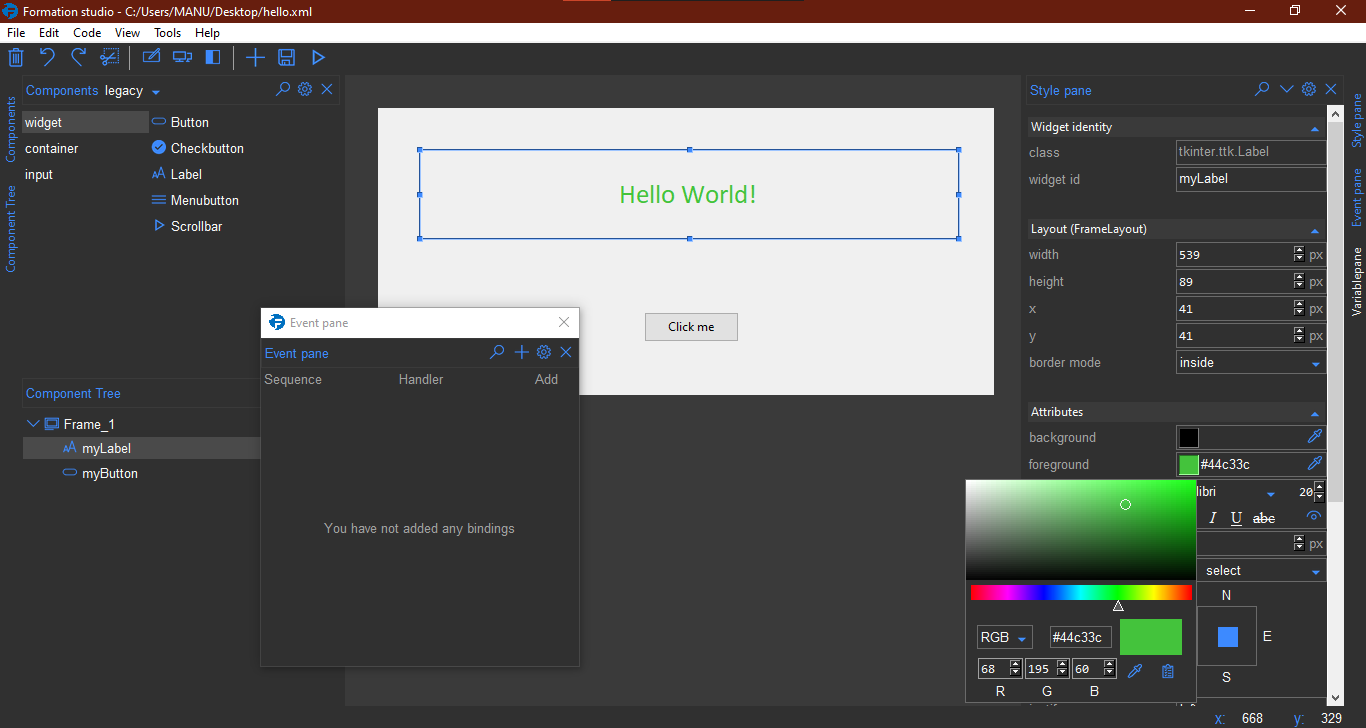
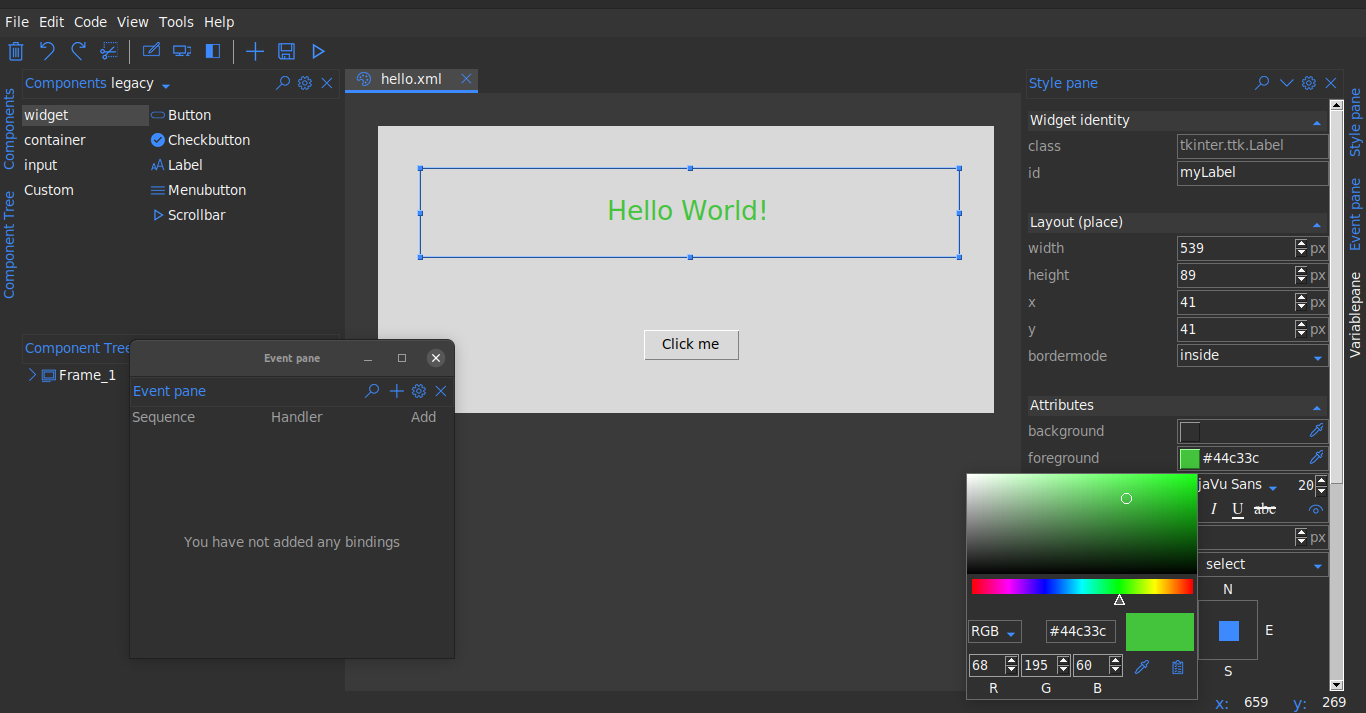
Update doc images to display new tab look

diff --git a/README.md b/README.md
@@ -17,7 +17,10 @@ other
 [Android Studio's](https://developer.android.com/studio) visual layout editor,
 [PAGE](http://page.sourceforge.net). The XML format used is largely similar to one used by android layout files. It
 currently supports both tkinter and it's ttk extension. Other file formats other than XML are now supported for instance
-JSON.
+JSON. With a rich set of tools you can achieve stunning UI almost entirely from scratch. The design below was achieved using
+the tooling present in the studio (no images or external tools) testament to the power that formation presents.
+
+![Formation demo](https://raw.githubusercontent.com/obaraemmanuel/Formation/master/docs/_static/canvas-full-demo.png)
 
 ## Getting started
 
@@ -62,8 +65,13 @@ After a successful installation, you can launch the studio from the command line
 formation-studio
 ```
 
-The studio will open with a blank design (This can be modified in the preferences). Below is a sample of the studio in
+> Note: You cannot open multiple formation studio windows at the same time.
+> Running  this command to open another window while the previous one is still 
+> open will not work 
+
+The studio will open with a blank design in a new tab (This can be modified in the preferences). Below is a sample of the studio in
 action. With detachable tool windows, the studio is able to provide the flexibility required to get things done quickly.
+You can open multiple design files in different tabs.
 
 ![Formation window](https://raw.githubusercontent.com/obaraemmanuel/Formation/master/docs/_static/showcase.png)
 
@@ -136,6 +144,31 @@ app.mainloop()
 >Note: Its advisable that you use widget names that are valid python identifiers to avoid 
 >possible issues while use the dot syntax to access the widget from the builder object.
 >Use the widgets exact name as specified in the design to avoid `AttributeError`
+
+### formation CLI
+Formation also features a CLI to help do certain operations outside the studio such
+as install updates and modify or delete config files. The CLI is however more
+useful for studio developers. To run the CLI use the command `formation-cli`.
+
+```bash
+formation-cli --help
+```
+
+```
+usage: formation-cli [-h] [-r FILES] [-c KEY [VALUES ...]] [-u] [-v]
+
+Command line tools for formation studio
+
+optional arguments:
+  -h, --help            show this help message and exit
+  -r FILES, --remove FILES
+                        Removes and cleans internal app files. Can be set to config, cache or all.
+  -c KEY [VALUES ...], --config KEY [VALUES ...]
+                        Get or set studio configuration values.
+  -u, --upgrade         Upgrade formation studio to latest version
+  -v, --version         show program's version number and exit
+```
+
 
 For more details checkout the [documentation](https://formation-studio.readthedocs.io/en/latest/)
 For those wishing to contribute, see the [studio notes](https://formation-studio.readthedocs.io/en/latest/studio/architecture.html) for developers and contributors
